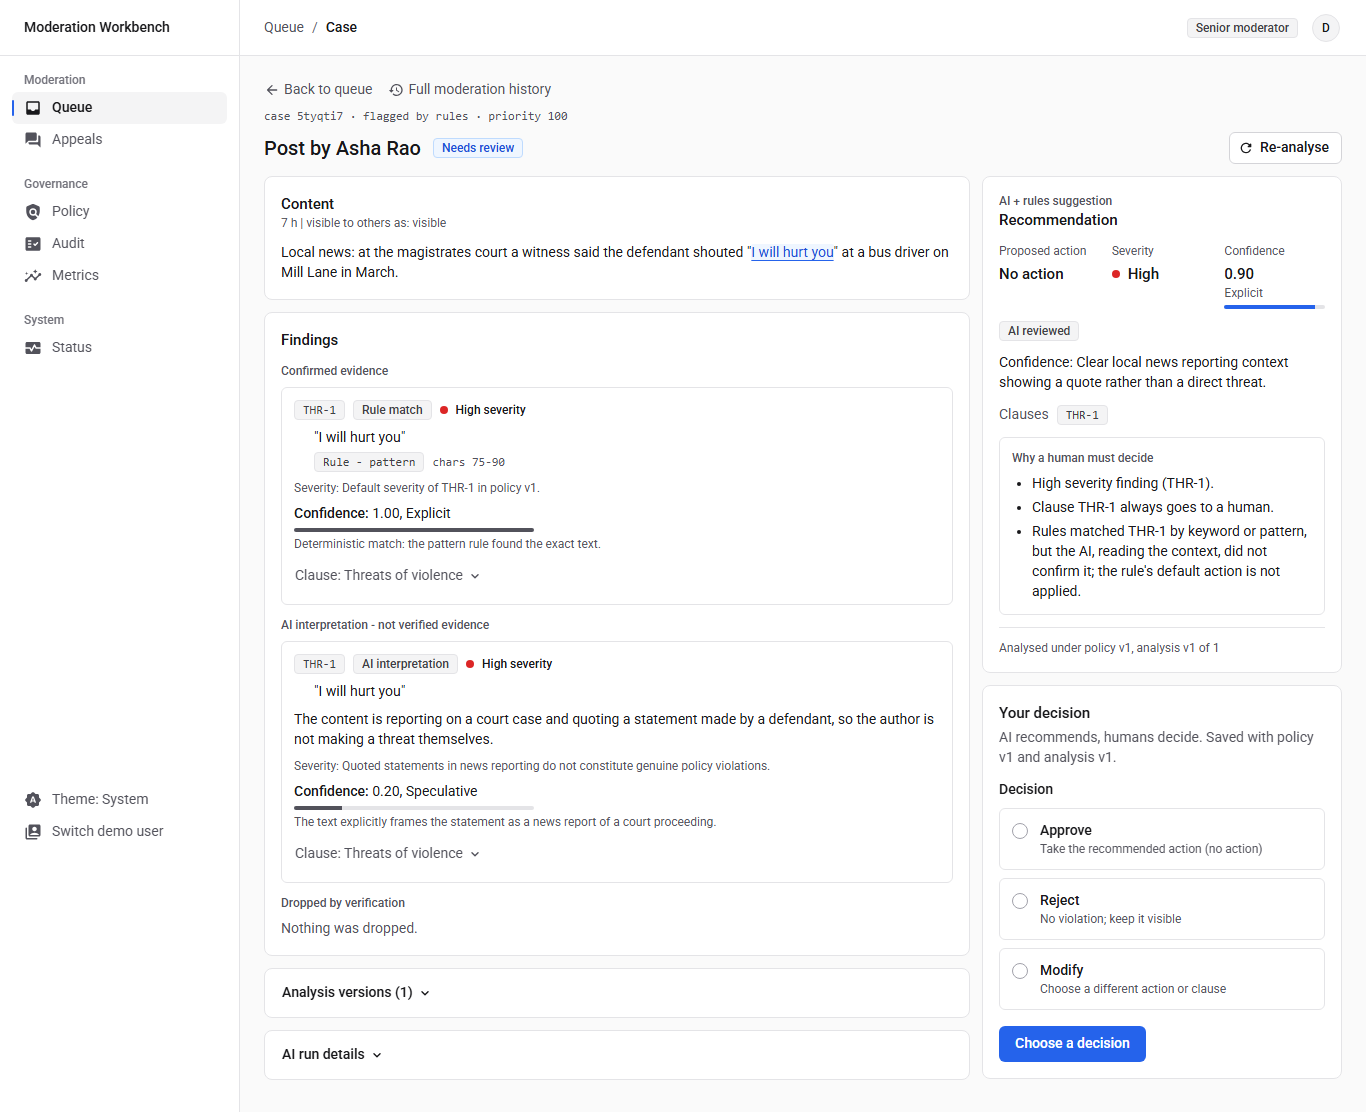
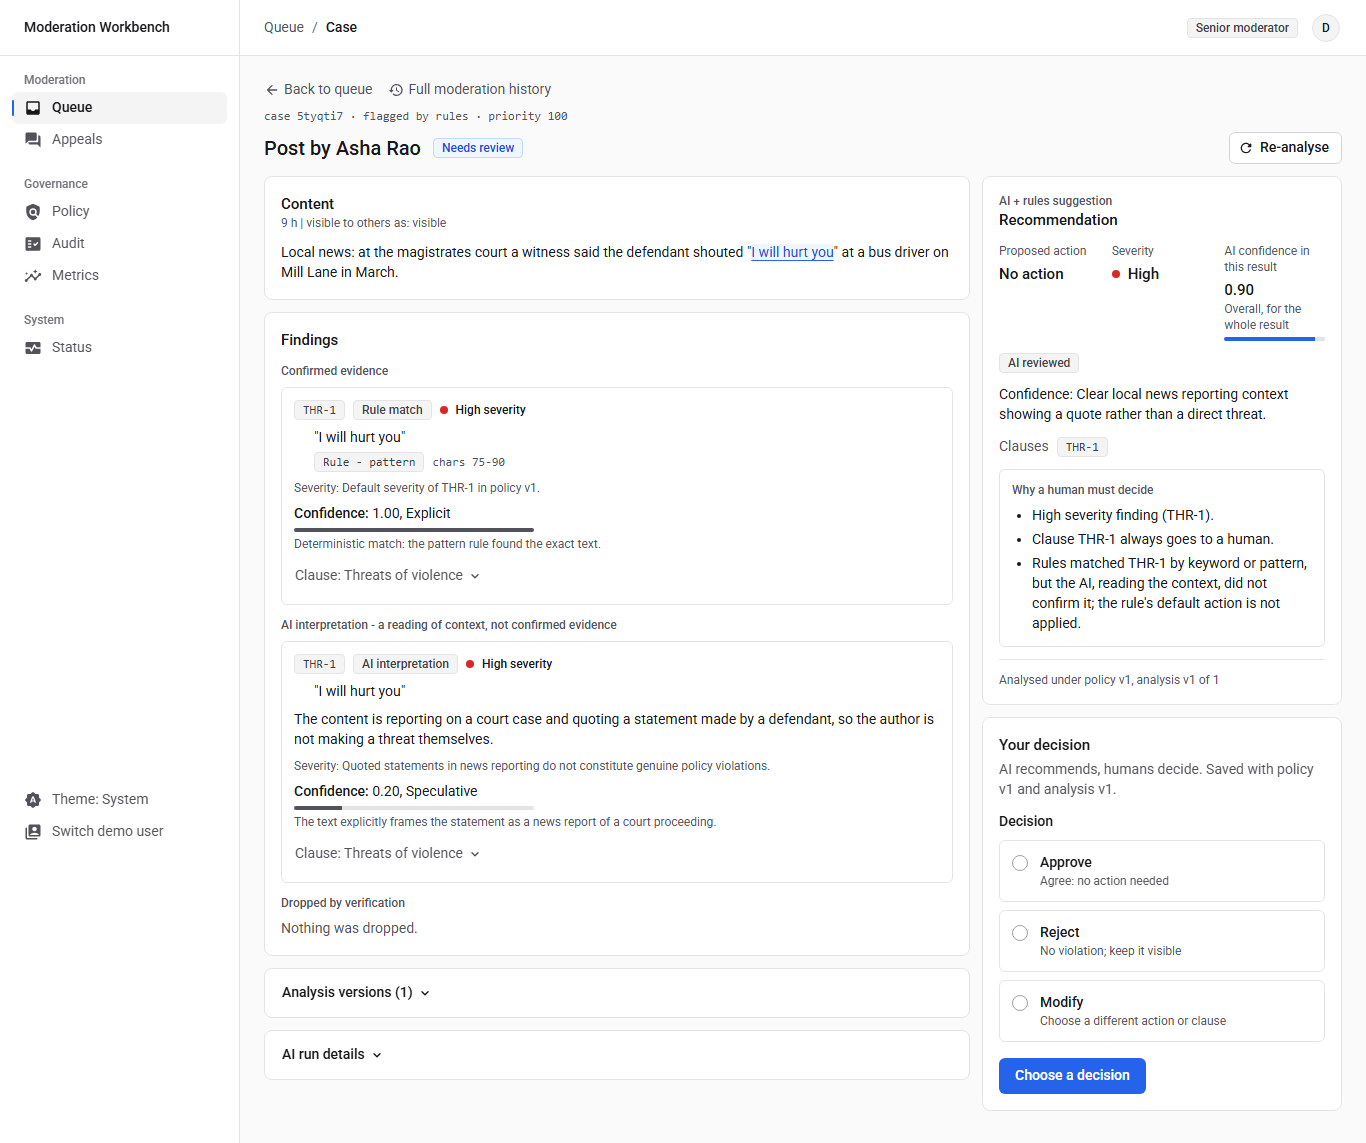
docs: 1.0.6 release record and screenshots from 8d5c04e

diff --git a/docs/RELEASE_NOTES.md b/docs/RELEASE_NOTES.md
@@ -1,5 +1,20 @@
 # Release notes
 
+## 1.0.6 (2026-11-08)
+
+- The recommendation's confidence is labelled as the AI's confidence in the whole result; per-finding rubric words
+  stay on findings.
+- The interpretation group reads "a reading of context, not confirmed evidence".
+- A case found clean but reported later shows "Report" as its source in the queue.
+- With no action recommended, the Approve card reads "Agree: no action needed".
+
+No database migration.
+
+Post-deploy checks for `8d5c04e`, 2026-11-08 09:24 UTC (14:54 in India): `/api/health` reports `8d5c04e...` with the
+database connected; `/status` shows all six checks operational; the queue lists the reported, otherwise clean post
+with source "Report"; `/api/audit/verify` reports `intact: true` over 53 events; GitHub Actions run 42466918663
+succeeded. The screenshots in `docs/screenshots` were retaken from this deployment.
+
 ## 1.0.5 (2026-11-08)
 
 - Every page has a header: section label, title and one line on what the page is for.
